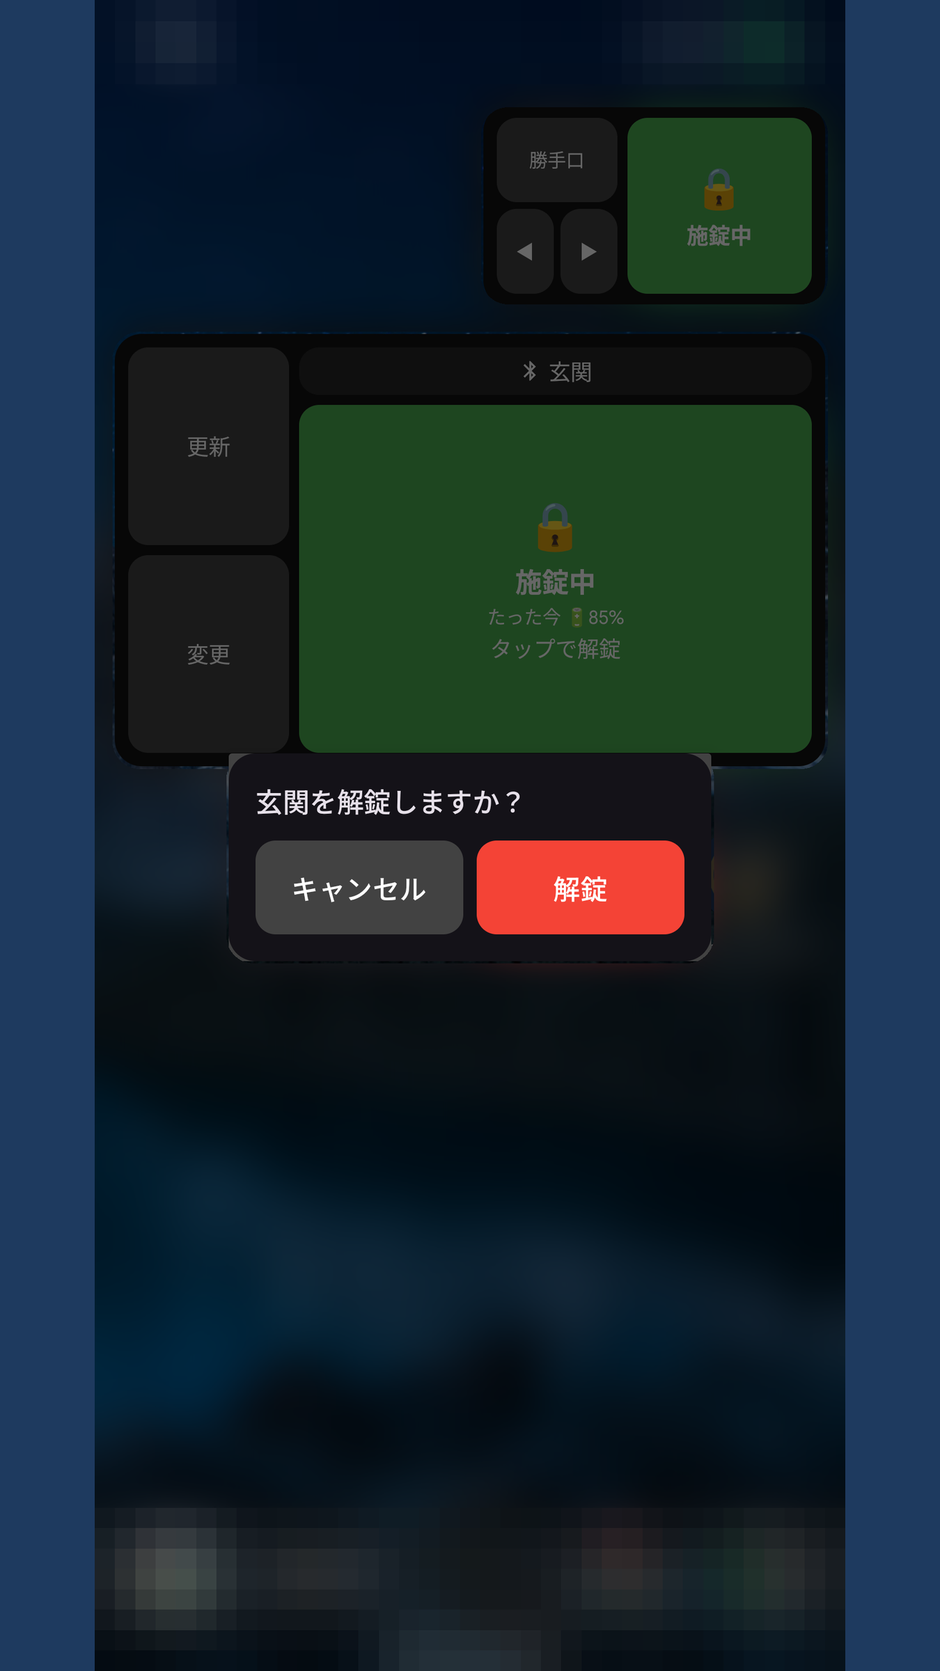
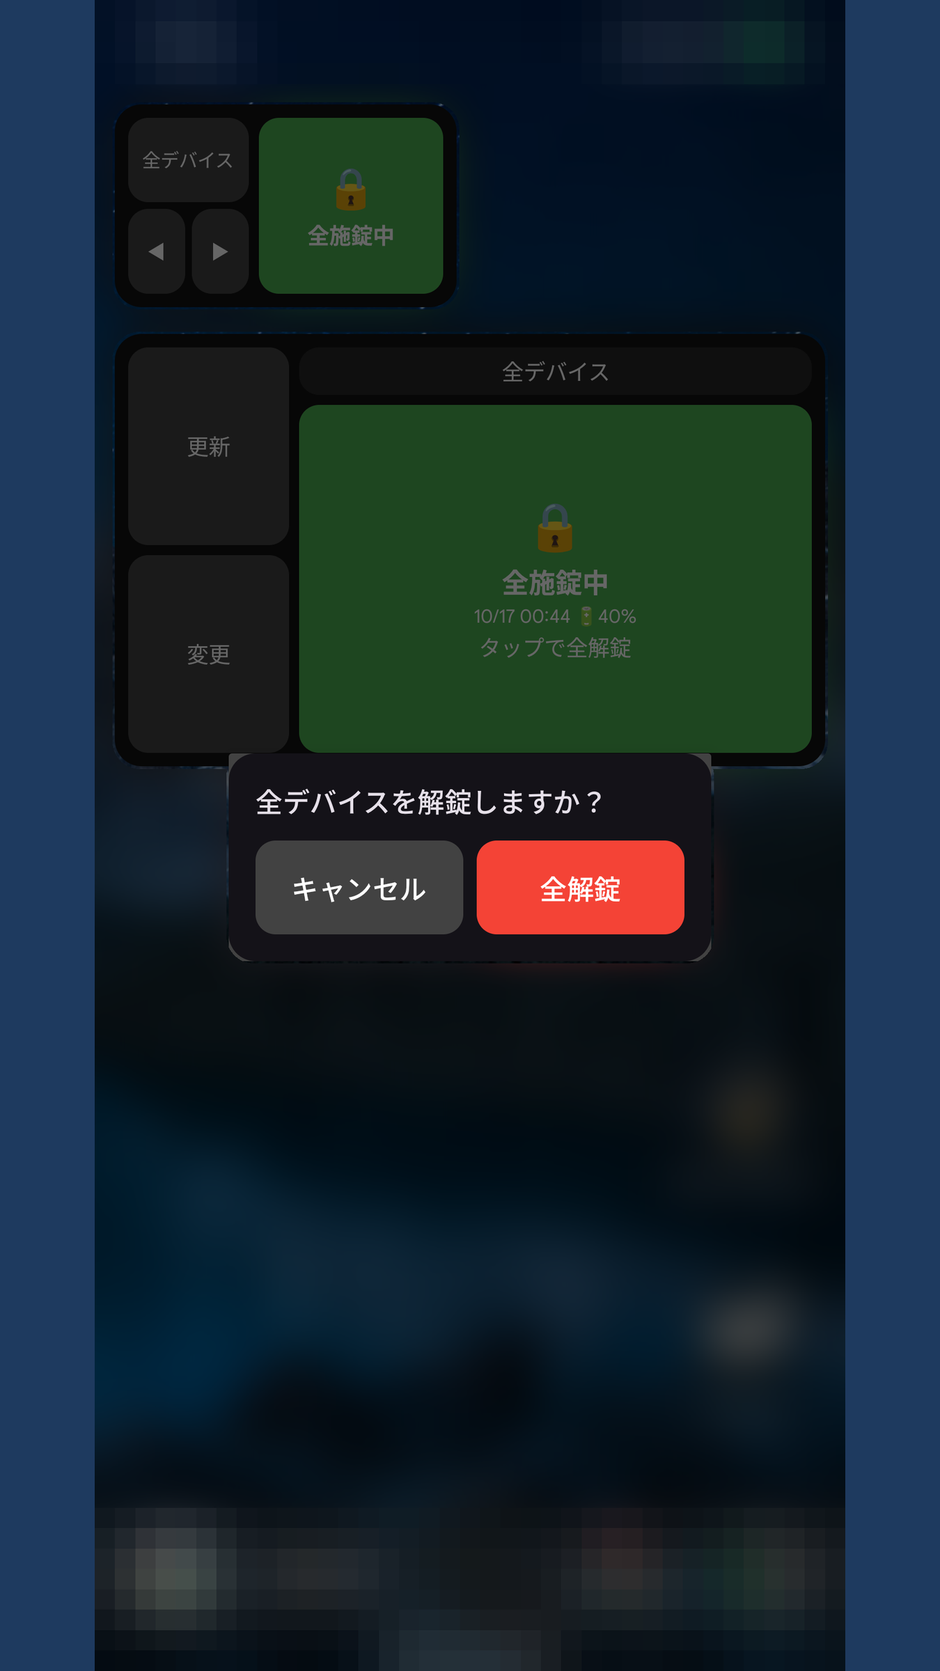
docs: 📸 0.14.3の表示で掲載スクリーンショットを撮り直しダイヤル操作を加える (BL-250)
Pixel 8 Pro実機のデバッグ版・撮影モードでphone_1〜phone_7を撮り直し、
ダイヤル操作のphone_8を追加した。アプリ内の画面は目印を隠してから撮り、
ステータスバー・ドックのモザイクと壁紙のぼかしで実機の状態を隠した。
ウィジェット一覧のプレビュー画像を作り直し、ストア資料と加工スキルの
手順を更新した。ウォッチの掲載画像は据え置く。

BL-250, BL-242

diff --git a/docs/store/README.md b/docs/store/README.md
@@ -18,13 +18,14 @@ Google Play Console へ提出する掲載情報を、このディレクトリで
 
 | ファイル | 内容 | サイズ |
 | --- | --- | --- |
-| `phone_1_widget_locked.png` | ホーム画面ウィジェット（施錠中、タップで解錠）。2x1と4x2を並べて表示。アプリのウィジェット一覧のプレビュー画像の元でもある（差し替えたら `scripts/make-widget-previews.py` で作り直す） | 1350x2400 |
-| `phone_2_widget_unlock_confirm.png` | ウィジェットからの解錠確認ダイアログ | 1350x2400 |
-| `phone_3_widget_unlocked.png` | ホーム画面ウィジェット（解錠中、タップで施錠）。2台の状態が混在した表示 | 1350x2400 |
-| `phone_4_device_list.png` | アプリ主画面（Sesameごとのカード。状態・電池・角度・最終取得時刻・経路・Bluetoothの到達状況） | 1350x2400 |
-| `phone_5_menu.png` | 右上の「⋮」メニュー（操作の経路・Bluetoothで直接操作・通知・ヘルプ・診断ログ。0.14.3で「操作履歴（診断ログ）」へ改名したため撮り直しが必要、BL-242） | 1350x2400 |
-| `phone_6_device_edit.png` | Sesameの追加・編集画面（表示名・uuid・apikey・secretKey） | 1350x2400 |
-| `phone_7_help.png` | ヘルプのメニュー（値の取得方法・デモ・ウォッチ・ウィジェット・Bluetooth） | 1350x2400 |
+| `phone_1_widget_locked.png` | ホーム画面ウィジェット（全施錠中、タップで全解錠）。2x1と4x2を並べて表示。取得時刻は日時表示。アプリのウィジェット一覧のプレビュー画像の元でもある（差し替えたら `scripts/make-widget-previews.py` で作り直す） | 1350x2400 |
+| `phone_2_widget_unlock_confirm.png` | ウィジェットからの解錠確認ダイアログ（全デバイス） | 1350x2400 |
+| `phone_3_widget_unlocked.png` | ホーム画面ウィジェット。2x1は1台（玄関、解錠中）、4x2は全デバイス（一部解錠、タップで全施錠） | 1350x2400 |
+| `phone_4_device_list.png` | アプリ主画面（Sesameごとのカード。状態バッジ・電池・角度・最終取得時刻・経路・Bluetoothの到達状況・ダイヤル操作の入口・API呼び出し回数） | 1350x2400 |
+| `phone_5_menu.png` | 右上の「⋮」メニュー（操作の経路・Bluetoothで直接操作・経路の通知・お知らせ・ヘルプ・操作履歴（診断ログ）） | 1350x2400 |
+| `phone_6_device_edit.png` | Sesameの追加・編集画面（表示名・uuid・apikey・secretKey。値はダミー） | 1350x2400 |
+| `phone_7_help.png` | ヘルプのメニュー（値の取得方法・APIの上限・デモ・ウォッチ・ウィジェット・Bluetooth・モバイル回線） | 1350x2400 |
+| `phone_8_dial.png` | ダイヤル操作（Bluetoothで直接操作。サムターンの角度を針で表示し、半周なぞって施錠・解錠） | 1350x2400 |
 | `wear_1_complication.png` | ウォッチフェイスのコンプリケーション（施錠状態の表示） | 384x384 |
 | `wear_2_tile_locked.png` | タイル（全施錠中、タップで全解錠） | 384x384 |
 | `wear_3_tile_unlocked.png` | タイル（全解錠中、タップで全施錠） | 384x384 |
@@ -32,29 +33,22 @@ Google Play Console へ提出する掲載情報を、このディレクトリで
 | `wear_5_unlock_confirm.png` | 解錠時の確認画面（キャンセル／全解錠） | 384x384 |
 | `wear_6_device_select.png` | 操作対象デバイスの選択画面 | 384x384 |
 
-- スマートフォン用は、`phone_1`〜`phone_3`（ホーム画面ウィジェット）が実機、`phone_4`〜`phone_7`（アプリ内の画面）が
-  Androidエミュレータの撮影です。どちらも内容を切らずに左右へ背景色の帯（`#1E3A5F`）を足して9:16
-  （1350x2400）へ整えています。Play Consoleは縦横比の上限があり、実解像度のままでは弾かれる可能性があるためです。
-- `phone_1`〜`phone_3` は2026-09-26にPixel 8 Pro実機で撮り直しました（0.14.0。帯の経路マーク・
-  左列・帯の色の変更、BL-205 / BL-206 / BL-209 / BL-210 を反映）。デバッグ版の撮影モード
-  （README.md「撮影モード（デバッグ版のみ）」）で見本のデバイス（玄関・勝手口）と状態を出しているため、
-  実Sesameデバイス・実資格情報は使っておらず、実デバイス名も写っていません。
-  実機の状態が写るステータスバーとドックはモザイク、壁紙はウィジェットとダイアログ以外をぼかして
-  います（手順は Skill `store-screenshot-masking`）。
-- `phone_4`〜`phone_7` は2026-09-21にAndroidエミュレータ（AVD `nocompanion`、Pixel 6相当、1080x2400）で
-  撮り直したものです（0.13.0）。スマートフォン画面のカードUIへの刷新（BL-173〜BL-188）、「⋮」メニューへの
-  集約、Sesameの追加・編集画面の独立を反映しています。0.14.0ではリリース版のアプリ内の画面が
-  変わっていないため据え置きました（デバッグ版で撮ると撮影モードの表示が写るため、撮り直していません）。
-  表示名は実在しないダミー（`Entrance` / `Garage`）、施錠・解錠の状態はモックAPI
-  （`scripts/mock-sesame-api.py`）で作っています。旧構成の `phone_4_widget_config.png` /
-  `phone_5_credentials.png` / `phone_6_help.png` は削除しました。
-- `phone_4_device_list.png` のカードに出る「Bluetooth：圏内（たった今確認）」と経路の
-  「Bluetooth」は、BLEの到達実績の保存値（`sesami_wear_ble_reachability.xml`）と状態の保存値
-  （`sesami_wear_lock_state.xml`）へ、圏内・経路BLEの値を書き込んで再現したものです。
-  エミュレータの近くに実Sesameが無く、そのままでは「圏外」表示になるためで、Sesameの
-  電波圏内にいる利用者が実際に見る表示と同じです（施錠・解錠の状態をモックAPIで作るのと同じ扱い）。
+- スマートフォン用の `phone_1`〜`phone_8` は、2026-10-17にPixel 8 Pro実機（ダークテーマ）で撮り直しました
+  （0.14.3。ウィジェットの日時表示・UIのモダン化・「操作履歴（診断ログ）」への改名・ダイヤル操作の追加、
+  BL-236 / BL-237 / BL-243 / BL-245 を反映。BL-250）。デバッグ版の撮影モード（README.md「撮影モード（デバッグ版のみ）」）
+  で見本の3台（玄関・勝手口・ガレージ）と状態を出しているため、実Sesameデバイス・実資格情報は使っておらず、
+  実デバイス名も写っていません。アプリ内の画面（`phone_4`〜`phone_8`）は撮影モードの「目印を10分隠す」（BL-249）で
+  「📷 撮影モード」とメニューの項目を消して撮っています。編集画面のapikey欄は、撮影用の内部の値
+  （`showcase-dummy`）が写らないよう、保存せずに `DUMMYAPIKEY0001` へ打ち替えて撮っています。
+- 実機の状態が写るステータスバーはモザイク、ホーム画面の3点はドックもモザイクにし、壁紙はウィジェットと
+  ダイアログ以外をぼかしています（手順は Skill `store-screenshot-masking`）。いずれも内容を切らずに左右へ
+  背景色の帯（`#1E3A5F`）を足して9:16（1350x2400）へ整えています。Play Consoleは縦横比の上限があり、
+  実解像度のままでは弾かれる可能性があるためです。
+- 0.13.0（2026-09-21）まではアプリ内の画面をAndroidエミュレータ（AVD `nocompanion`）とモックAPIで撮っていました。
+  撮影モード（BL-212 / BL-213）と目印を隠す操作（BL-249）で、実機でも実Sesame・実資格情報なしに撮れるようになったため、
+  0.14.3は実機で撮りました（ウィジェットと同じ見本のデバイス名で揃う）。
 - ファイル名の番号はPlay Consoleへ投入する順序に対応します。スマートフォン用は「ウィジェットの
-  状態表示 → 操作の確認 → アプリ画面 → 設定 → ヘルプ」、Wear OS用は「状態表示 → タイルの
+  状態表示 → 操作の確認 → アプリ画面 → 設定 → ヘルプ → ダイヤル操作」、Wear OS用は「状態表示 → タイルの
   各状態 → 操作の確認 → 設定」の流れで並べています。
 - Wear OS用の `wear_2`〜`wear_4`・`wear_6` は、2026-09-25にPixel Watch 2実機で撮り直しました（0.14.0）。
   タイルは帯の経路マーク（図柄）・左列の幅・帯の色の変更を反映しています。撮影モードの見本の3台
@@ -134,9 +128,11 @@ https://github.com/filderschoice/sesami-wear/blob/main/docs/store/PRIVACY_POLICY
 4. Play Consoleへ転記し、反映日を各ファイルの「最終更新日」へ記録します。
 5. プライバシーポリシーを変更した場合は、データ安全性の申告内容に影響がないかもあわせて確認します。
 6. スクリーンショットを撮り直す場合は、Androidエミュレータで撮影します（手順はスキル
-   `store-screenshot-capture`）。実機のPlayストア版では実資格情報と実デバイス名が写り、
-   操作すると実際の鍵が動くため使いません。Wear OS用だけは、ウォッチ側の表示を変えたときに
-   Pixel Watch 2の実機で撮り直します。
+   `store-screenshot-capture`）。0.14.3では、ウィジェットと見本のデバイス名を揃えるため、デバッグ版の
+   撮影モードで実機を使いました（アプリ内の画面は「目印を10分隠す」を押してから撮り、加工はスキル
+   `store-screenshot-masking`）。実機のPlayストア版では実資格情報と実デバイス名が写り、
+   操作すると実際の鍵が動くため使いません。Wear OS用は、ウォッチ側の表示を
+   変えたときにPixel Watch 2の実機で撮り直します。
 
 ## 関連ドキュメント
 

diff --git a/docs/records/managed/BACKLOG.md b/docs/records/managed/BACKLOG.md
@@ -5,21 +5,6 @@
 
 <!-- COPILOT_RECORDS:BEGIN -->
 ```yaml
-- id: BL-250
-  区分: 品質ゲート
-  タスク内容: 0.14.3の画面に合わせて掲載スクリーンショット（スマートフォン）を撮り直す。
-    ウィジェットの日時表示（BL-236）とUIのモダン化（BL-245）でphone_1〜phone_7の表示が変わったため全点を
-    撮り直し、新機能のダイヤル操作（BL-243）をphone_8として加える（Google Playのスマートフォン用は最大8枚）。
-    Pixel 8 Pro実機のデバッグ版・撮影モード（見本の3台）で撮り、Skill store-screenshot-maskingで加工する。
-    ウォッチの6点は表示に影響する変更が無いため据え置く。ウィジェットのプレビュー画像も作り直す
-  優先度: P2
-  状態: 未着手
-  担当: AIエージェント
-  完了条件: docs/store/images/screenshots/のphone_1〜phone_8が0.14.3の表示で1350x2400になっており、
-    docs/store/README.mdの内訳と撮影日、STORE_LISTING.mdの枚数が更新されている
-  根拠: 2026-10-17のユーザー指示。撮影モードは実Sesame・実資格情報を使わない（BL-213）
-  依存: []
-
 - id: BL-251
   区分: 品質ゲート
   タスク内容: リリースに向けてドキュメントを最新化する。README.md・docs/USER_GUIDE.md・docs/store/・
@@ -42,13 +27,13 @@
   担当: AIエージェント
   完了条件: site/index.html・app.json・assets/が0.14.3の内容になっている（公開はmainへのマージ後にユーザーが行う）
   根拠: 2026-10-17のユーザー指示。site/README.mdの更新方針
-  依存: [BL-250]
+  依存: []
 
 - id: BL-242
   区分: 人手検証
   タスク内容: 0.14.3で追加・変更した機能を実機（Pixel 8 Pro）で確認する。
     (1) 右上「⋮」の項目名とダイアログ表題が「操作履歴（診断ログ）」になっている（BL-237）。
-    あわせて掲載スクリーンショット`phone_5_menu.png`を撮り直す。
+    掲載スクリーンショット`phone_5_menu.png`は2026-10-17に撮り直し済み（BL-250）。
     (2) 「お知らせ」から電池残量の通知をオン・オフでき、Android 13以降で未許可ならオンにしたとき許可を求める。
     電池残量20%未満のセサミで状態を取得すると通知が1回だけ出て、タップでアプリが開く（BL-238。実機の電池を
     下げられない場合は、デバッグ版の撮影モードで電池残量を下げた状態を作って確認する）。
@@ -62,9 +47,10 @@
     扱う前提の確認）、半周なぞると施錠・解錠でき、ウィジェットへ反映されること、Bluetoothを切ると
     「届きません」になり何も送らないことを確認する（BL-243）。
     (7) 主画面がライト・ダークの両方で紺基調になり、カードの状態バッジの色・⋮メニューの編集/削除・
-    API回数のカード・未登録時の案内画面が崩れずに表示される（BL-245）。掲載スクリーンショット
-    `phone_4_device_list.png`ほか主画面が写るものを撮り直す。
-    (8) リリース時に`docs/store/STORE_LISTING.md`の詳細な説明（0.14.3の機能を追記済み）をPlay Consoleへ転記し、
+    API回数のカード・未登録時の案内画面が崩れずに表示される（BL-245）。主画面が写る掲載スクリーンショットは
+    2026-10-17にダークテーマで撮り直し済み（BL-250）。
+    (8) リリース時に`docs/store/STORE_LISTING.md`の詳細な説明（0.14.3の機能を追記済み）とスクリーンショット
+    （phone_1〜phone_8、BL-250）をPlay Consoleへ反映し、
     `site/index.html`の機能紹介へ通知・クイック設定・ダイヤル操作を追記する（site/README.mdの更新方針どおりリリース時に行う）。
     (2)〜(7)の画面表示と操作の流れは、デバッグ版の撮影モードで実機・実資格情報なしでも先に確認できる
     （BL-246。ダイヤル操作は撮影用の状態で動き、Bluetoothを使わない。手順は撮影モードの操作画面の説明文）。
@@ -84,7 +70,7 @@
   優先度: P2
   状態: 未着手
   担当: ユーザー
-  完了条件: 各項目を実機で確認し、掲載スクリーンショットを差し替える
+  完了条件: 各項目を実機で確認し、Play Consoleの掲載スクリーンショットを差し替える
   根拠: 実機のランチャー・通知・クイック設定の表示はAIエージェントが自動検証できないため
   依存: []
 

diff --git a/docs/records/managed/EXECUTE.md b/docs/records/managed/EXECUTE.md
@@ -5,6 +5,37 @@
 
 <!-- COPILOT_RECORDS:BEGIN -->
 ```yaml
+- date: 2026-10-17 02:50
+  summary: 0.14.3の表示で掲載スクリーンショット（スマートフォン8点）とウィジェットのプレビュー画像を撮り直す（BL-250）
+  details:
+    変更内容: >-
+      リリースに向けたユーザー指示に基づき、Pixel 8 Pro実機のデバッグ版・撮影モード（見本の3台、ダークテーマ）で
+      phone_1〜phone_7を撮り直し、ダイヤル操作のphone_8_dial.pngを加えた。アプリ内の画面は「目印を10分隠す」（BL-249）
+      を押してから撮り、Skill store-screenshot-maskingでステータスバー（ホーム画面はドックも）をモザイク、壁紙をぼかし、
+      1350x2400へ整えた。編集画面のapikey欄は保存せずにダミー値へ打ち替えて撮った。phone_1からウィジェット一覧の
+      プレビュー画像（widget_preview.png / widget_preview_small.png）を`scripts/make-widget-previews.py`で作り直した。
+      ウォッチの6点は表示に影響する変更が無いため据え置いた。docs/store/README.md・STORE_LISTING.md、
+      Skill store-screenshot-maskingの手順を更新した。元画像はGit管理外のcaptures/に置いている。
+    変更ファイル:
+      - docs/store/images/screenshots/phone_1_widget_locked.png
+      - docs/store/images/screenshots/phone_2_widget_unlock_confirm.png
+      - docs/store/images/screenshots/phone_3_widget_unlocked.png
+      - docs/store/images/screenshots/phone_4_device_list.png
+      - docs/store/images/screenshots/phone_5_menu.png
+      - docs/store/images/screenshots/phone_6_device_edit.png
+      - docs/store/images/screenshots/phone_7_help.png
+      - docs/store/images/screenshots/phone_8_dial.png
+      - mobile/src/main/res/drawable-nodpi/widget_preview.png
+      - mobile/src/main/res/drawable-nodpi/widget_preview_small.png
+      - docs/store/README.md
+      - docs/store/STORE_LISTING.md
+      - .claude/skills/store-screenshot-masking/SKILL.md
+    検証コマンド: >-
+      ./gradlew ktlintCheck detekt lintDebug testDebugUnitTest test assembleDebug /
+      npx markdownlint-cli2 "**/*.md" / python scripts/validate-records.py
+    検証結果: >-
+      成功 - いずれも終了コード0（markdownlintは40ファイルで0件）。加工後の画像は縮小版で、目印・実機の状態が写っていないことを確認した。
+
 - date: 2026-10-17 02:10
   summary: デバッグ版の撮影モードに、掲載用に目印を10分隠す操作を追加する（BL-249）
   details:

diff --git a/docs/store/STORE_LISTING.md b/docs/store/STORE_LISTING.md
@@ -130,16 +130,16 @@ Markdownを解釈しないため、転記時は見出し・箇条書きの記法
 
 ## スクリーンショット
 
-スマートフォン用7枚とWear OS用6枚を [images/screenshots/](images/screenshots/) に用意済みです。
+スマートフォン用8枚とWear OS用6枚を [images/screenshots/](images/screenshots/) に用意済みです。
 内訳と加工内容は [README.md](README.md)「ファイル一覧」を参照してください。
 
-- スマートフォン用: ホーム画面ウィジェットの3枚は0.14.0の表示でPixel 8 Pro実機を使って撮影し
-  （2026-09-26、ステータスバー・ドックはモザイク、壁紙はぼかし）、アプリ内の画面の4枚は
-  0.13.0の画面をAndroidエミュレータで撮影しています（2026-09-21。0.14.0でも表示は同じ）。
+- スマートフォン用: 8枚とも0.14.3の表示でPixel 8 Pro実機（デバッグ版の撮影モード）を使って撮影しています
+  （2026-10-17。ステータスバーはモザイク、ホーム画面の3枚はドックもモザイクにし壁紙はぼかし）。
+  0.14.3でダイヤル操作の画面（`phone_8_dial.png`）を加えました。
 - Wear OS用: タイル3枚とデバイス選択は0.14.0の表示でPixel Watch 2実機を使って撮影しています
   （2026-09-25）。解錠確認は表示が変わっていないため据え置き、コンプリケーションは2026-09-06撮影の
   ままです（撮影時の文字盤が手元に無いため）。
 
-**0.14.0の配信時に、Play Consoleのスマートフォン用とWear OS用の枠の画像も差し替えてください**
-（リポジトリの画像を更新しただけでは掲載は変わりません）。差し替えるのは `phone_1`〜`phone_3` と
-`wear_2`〜`wear_4`・`wear_6` です。
+**0.14.3の配信時に、Play Consoleのスマートフォン用の枠の画像を差し替えてください**
+（リポジトリの画像を更新しただけでは掲載は変わりません）。差し替えるのは `phone_1`〜`phone_8` の全8枚
+（`phone_8` は追加）です。Wear OS用の枠は変わりません。

diff --git a/.claude/skills/store-screenshot-masking/SKILL.md b/.claude/skills/store-screenshot-masking/SKILL.md
@@ -22,9 +22,11 @@ model: sonnet
 | 壁紙・ホーム画面のほかのアイコン | 残す枠の外をぼかす | 壁紙が私物の写真のことがある。ランチャーのアプリ名に「(debug)」が出る |
 
 アプリ内の画面（カード一覧・メニュー等）は壁紙が写らないため、ステータスバーのモザイクだけでよい
-（`--no-blur`）。ただし**デバッグ版のアプリ内の画面は撮影モードの表示（「📷 撮影モード」、メニューの
-「撮影モード」）が写るため、掲載用には使わない**（アプリ内の画面はエミュレータで撮る。
-`store-screenshot-capture`）。
+（`--no-blur`、`--dock-top 0`）。デバッグ版のアプリ内の画面には撮影モードの表示（「📷 撮影モード」、
+メニューの「撮影モード」）が出るため、**撮影モードの画面の「目印を10分隠す」（BL-249）を押してから撮る**
+（10分たつと自動で戻る。0.14.3の `phone_4`〜`phone_8` はこの方法で撮った）。編集画面のapikey欄は
+撮影用の内部の値（`showcase-dummy`）が写るため、保存せずに `DUMMYAPIKEY0001` へ打ち替えてから撮る
+（`input text` は文字を落とすので1文字ずつ送る）。
 
 ## 1. 元画像を受け取る
 
@@ -133,4 +135,4 @@ python $S mask captures/phone_1_widget_locked.raw.png docs/store/images/screensh
 - 元画像を `docs/store/images/screenshots/` に残したままコミットする（実機のステータスバー・ドックが写る）。
 - 加工前の元画像を退避せずに上書きする（範囲を直して加工し直せなくなる）。
 - 残す枠の座標を縮小版の目測だけで決める（角丸の欠けや、ぼかしの滲み込みが出る）。
-- デバッグ版のアプリ内の画面を掲載用に撮る（撮影モードの表示が写る）。
+- 「目印を10分隠す」を押さずにデバッグ版のアプリ内の画面を掲載用に撮る（撮影モードの表示が写る）。
